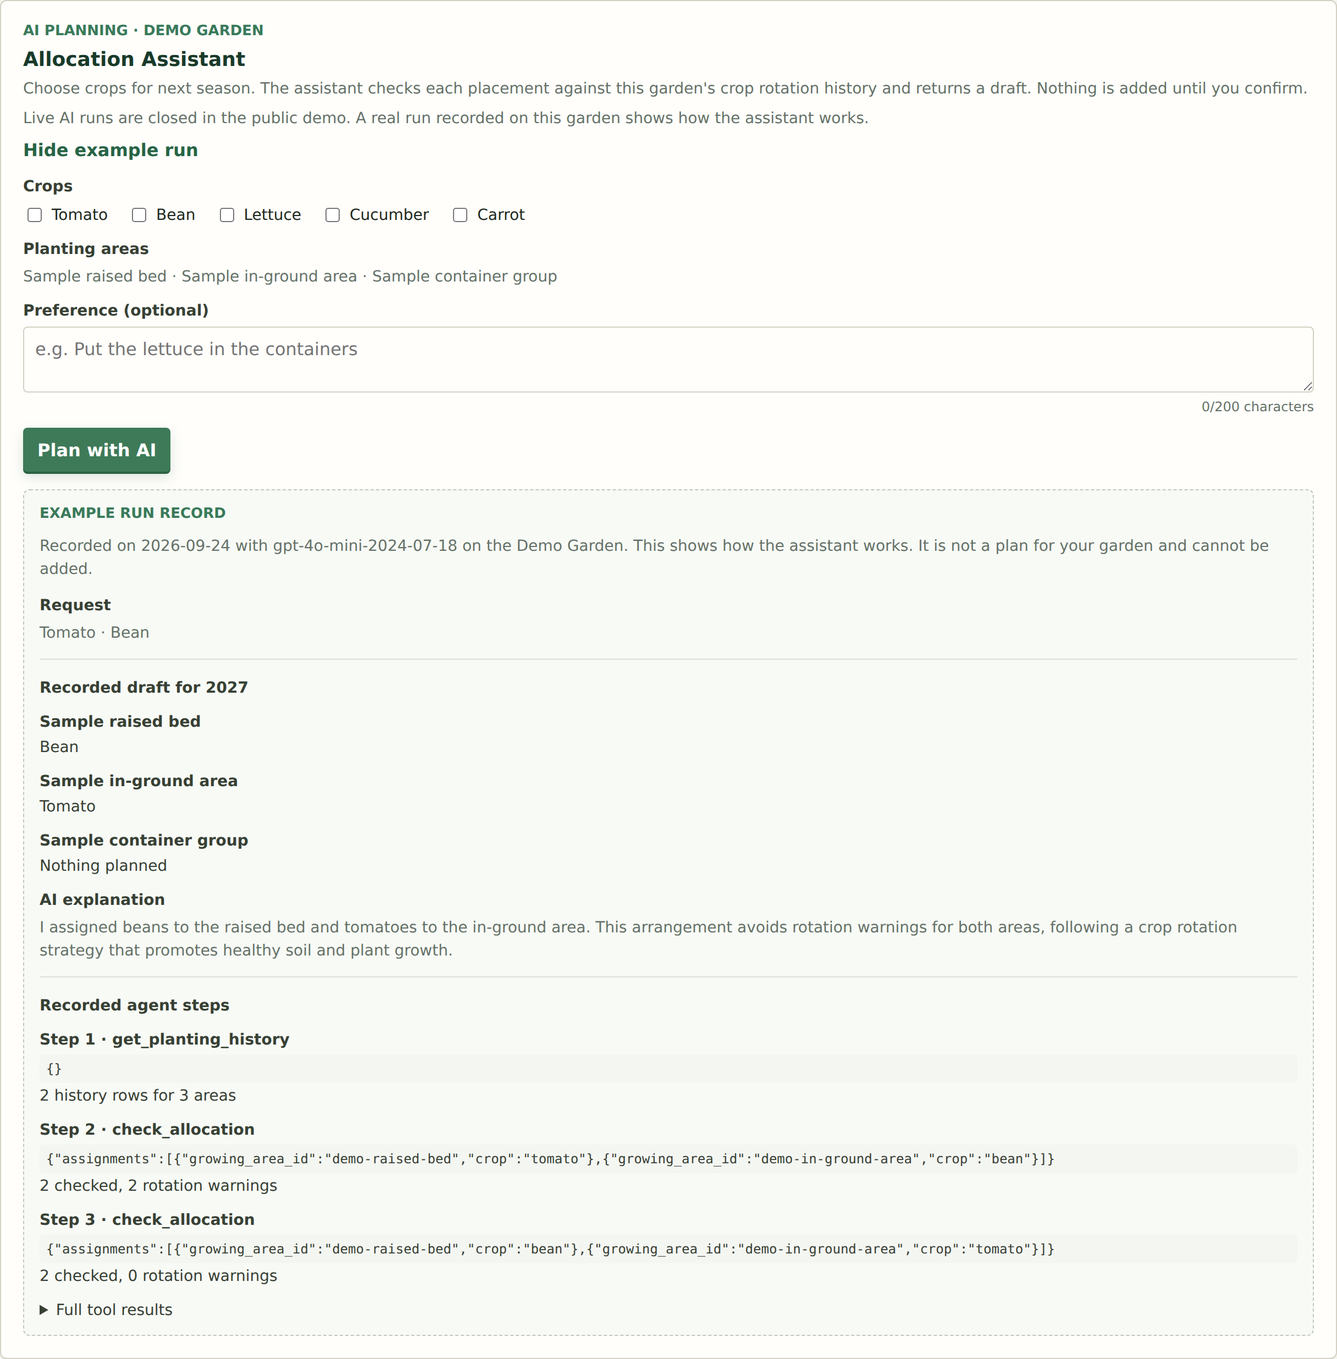
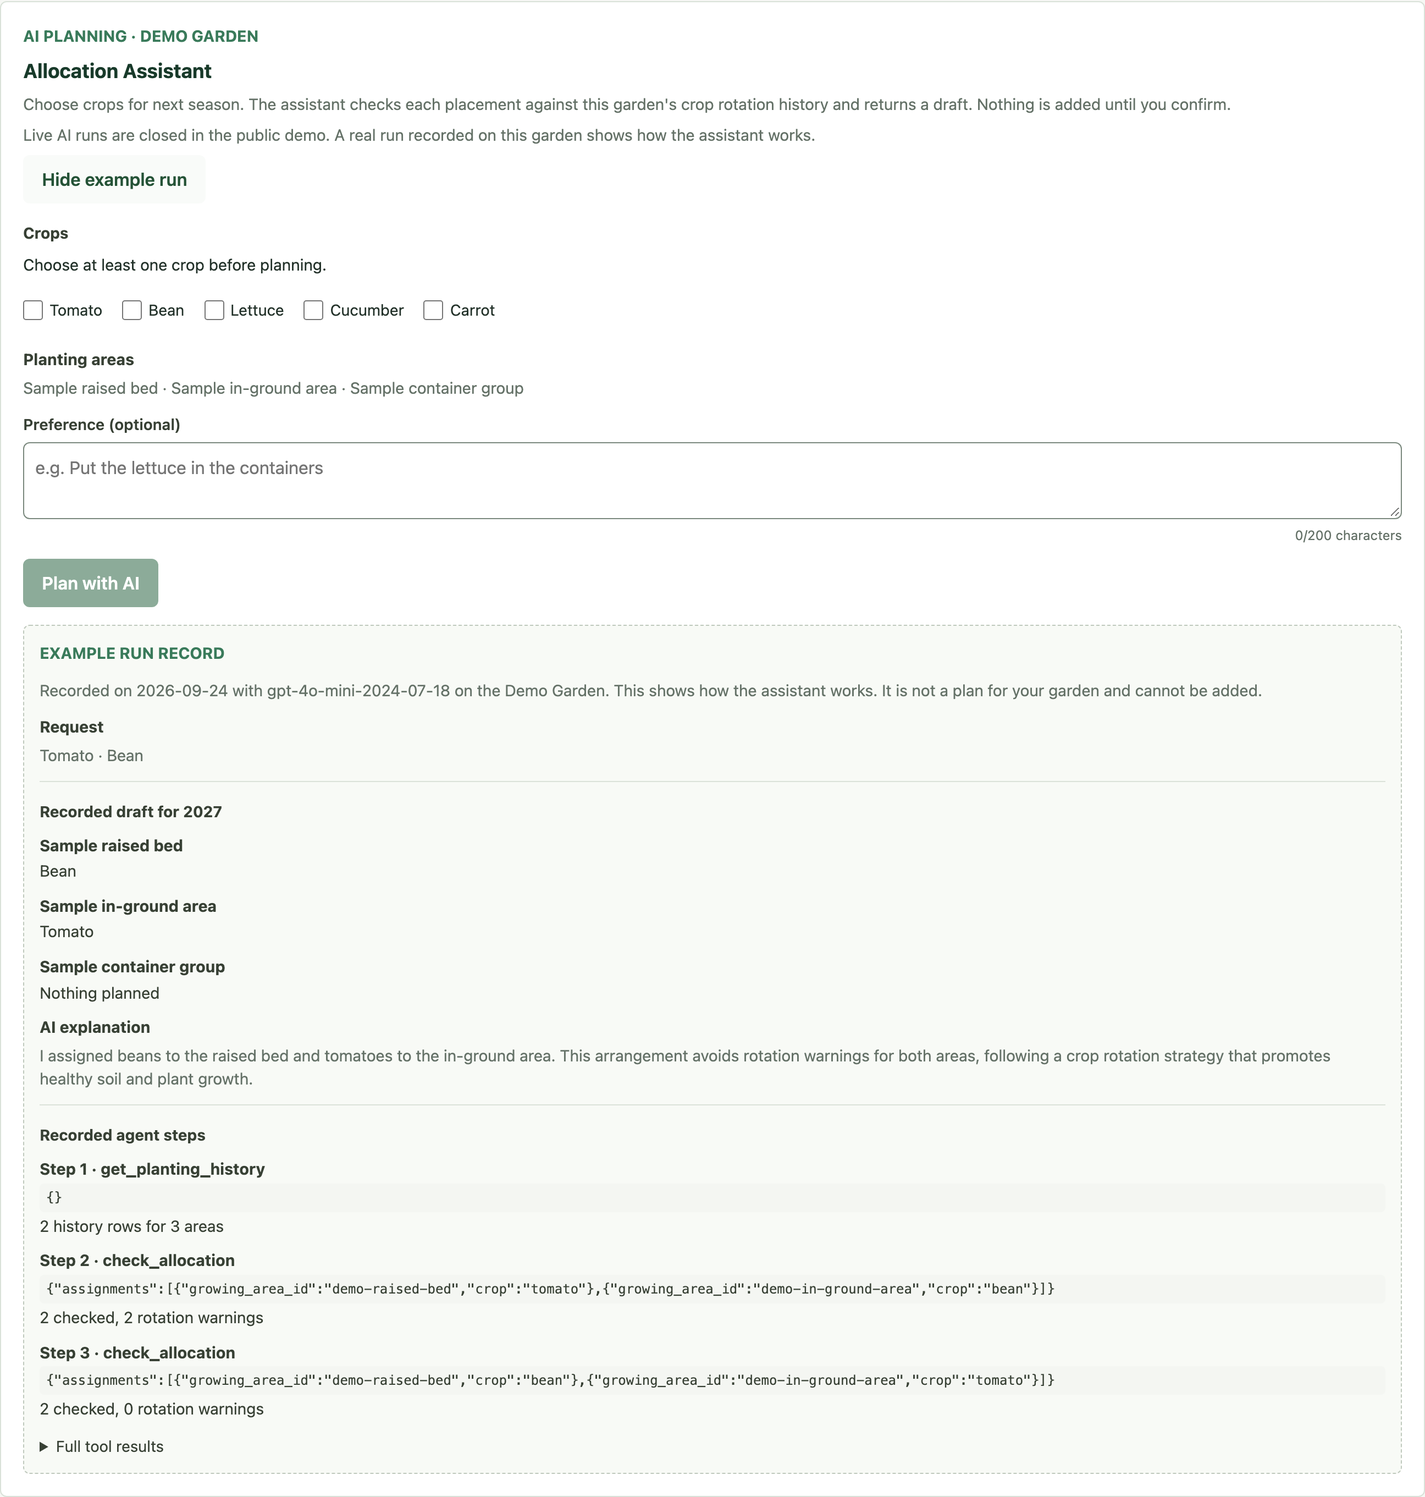
test: accept the single-canvas Garden Plan at four sizes and refresh README screenshots
Also keeps the Allocation Assistant crop checkboxes on one line below their hint.

diff --git a/e2e/garden-plan-acceptance.spec.ts b/e2e/garden-plan-acceptance.spec.ts
@@ -1,0 +1,89 @@
+import { expect, test, type Page } from "@playwright/test";
+import { createDemoGardenWorkspace } from "../src/lib/gardenWorkspace";
+import { planSurface } from "./areaHelpers";
+
+/**
+ * ADR-0072, phase G7: the single-canvas Garden Plan journey at the three
+ * reference widths, plus a 720 × 450 viewport at device scale 2, which is
+ * what a 1440 × 900 window shows at 200% browser zoom. Each step keeps a
+ * viewport screenshot in the test output and checks for sideways scrolling.
+ * The app has one (light) theme, so there is no dark run.
+ */
+const viewports = [
+  { name: "1440px", width: 1440, height: 900, scale: 1 },
+  { name: "768px", width: 768, height: 1024, scale: 1 },
+  { name: "390px", width: 390, height: 844, scale: 1 },
+  { name: "200% zoom", width: 720, height: 450, scale: 2 },
+];
+
+async function expectNoSideScroll(page: Page) {
+  await expect.poll(() => page.evaluate(() => document.documentElement.scrollWidth - innerWidth)).toBeLessThanOrEqual(1);
+}
+
+for (const viewport of viewports) {
+  test.describe(`Garden Plan acceptance at ${viewport.name}`, () => {
+    test.use({ viewport: { width: viewport.width, height: viewport.height }, deviceScaleFactor: viewport.scale });
+
+    test("edits the demo garden on one canvas, then guides a new garden to Ready", async ({ page }, testInfo) => {
+      const shot = (step: string) => page.screenshot({ path: testInfo.outputPath(`${step}-${viewport.name.replace(/\W+/g, "")}.png`) });
+      await page.route("**/ai/**", (route) => route.abort());
+      await page.addInitScript((value) => {
+        if (!localStorage.getItem("sun-aware-garden-planner:garden-workspace:v1")) localStorage.setItem("sun-aware-garden-planner:garden-workspace:v1", JSON.stringify(value));
+      }, createDemoGardenWorkspace());
+      await page.goto("/gardens/demo-garden/plan");
+      await expect(page.getByRole("heading", { name: "Garden Plan" })).toBeVisible();
+      await expect(page.getByText("All changes saved", { exact: true })).toBeVisible();
+      const surface = planSurface(page);
+      await expect(surface).toHaveAttribute("data-zooming", "false");
+      await surface.scrollIntoViewIfNeeded();
+      await shot("01-whole-garden");
+      await expectNoSideScroll(page);
+
+      // Opening an area zooms the same canvas; plants go straight onto it.
+      await page.getByRole("link", { name: "Edit Sample raised bed" }).click();
+      await expect(surface).toHaveAttribute("data-focused-area", "demo-raised-bed");
+      await expect(surface).toHaveAttribute("data-zooming", "false");
+      await page.getByRole("button", { name: "Add plant", exact: true }).click();
+      await page.getByLabel("Plant type", { exact: true }).fill("Lettuce");
+      await page.getByRole("button", { name: "Fill area", exact: true }).click();
+      await expect(page.getByText(/^Placed \d+ Lettuce\. Undo removes them\.$/)).toBeVisible();
+      await surface.scrollIntoViewIfNeeded();
+      await shot("02-zoomed-area");
+      await expectNoSideScroll(page);
+      await page.getByRole("button", { name: "Undo", exact: true }).click();
+      await expect(page.getByText("Undid fill Sample raised bed with Lettuce.", { exact: true })).toBeVisible();
+      await page.keyboard.press("Escape");
+      await expect(page.getByLabel("Plant type", { exact: true })).toHaveCount(0);
+      await page.getByRole("button", { name: "Whole garden" }).click();
+      await expect(surface).not.toHaveAttribute("data-focused-area", /.+/);
+
+      // A new garden starts the guide on the same canvas.
+      await page.getByRole("link", { name: "Back to gardens" }).click();
+      await page.getByRole("link", { name: "Add garden" }).click();
+      await page.getByLabel("Garden name").fill("Acceptance plot");
+      await page.getByRole("button", { name: "Continue setup" }).click();
+      const track = page.getByRole("navigation", { name: "Guided setup" });
+      await expect(track).toContainText("Step 1 of 4 · Garden size");
+      await page.getByRole("button", { name: "6 × 4 m" }).click();
+      await expect(page.getByText("Garden size set to 6 × 4 m.", { exact: true })).toBeVisible();
+      await track.scrollIntoViewIfNeeded();
+      await shot("03-guide-size");
+      await expectNoSideScroll(page);
+      await page.getByRole("button", { name: "Continue to planting areas" }).click();
+      await page.getByRole("button", { name: "Add In-ground bed, 2 × 3 m" }).click();
+      await expect(surface).toHaveAttribute("data-zooming", "false");
+      await track.scrollIntoViewIfNeeded();
+      await shot("04-guide-areas");
+      await expectNoSideScroll(page);
+      await page.getByRole("button", { name: "Continue to plants" }).click();
+      await page.getByRole("button", { name: "Skip plants for now" }).click();
+      await expect(page.getByRole("heading", { name: "Acceptance plot is ready" })).toBeVisible();
+      await track.scrollIntoViewIfNeeded();
+      await shot("05-guide-ready");
+      await expectNoSideScroll(page);
+      await page.getByRole("button", { name: "Finish setup" }).click();
+      await expect(track).toHaveCount(0);
+      await expect(page.getByRole("region", { name: "Garden properties" })).toContainText("Acceptance plot · 6 × 4 m");
+    });
+  });
+}

diff --git a/e2e/readme-screenshots.spec.ts b/e2e/readme-screenshots.spec.ts
@@ -1,0 +1,57 @@
+import { expect, test } from "@playwright/test";
+import { createDemoGardenWorkspace } from "../src/lib/gardenWorkspace";
+import { planSurface } from "./areaHelpers";
+
+/**
+ * Refreshes the README screenshots in docs/screenshots from the demo garden.
+ * It writes into the repository, so it runs only on request:
+ *
+ *   CAPTURE_README_SCREENSHOTS=1 npx playwright test e2e/readme-screenshots.spec.ts
+ *
+ * The Allocation Assistant capture answers the runtime-config request as the
+ * public demo does, so the page shows the recorded run (ADR-0057). No AI
+ * request is made.
+ */
+test.skip(!process.env.CAPTURE_README_SCREENSHOTS, "Set CAPTURE_README_SCREENSHOTS=1 to refresh the README images.");
+test.use({ viewport: { width: 1360, height: 900 }, deviceScaleFactor: 2 });
+
+test.beforeEach(async ({ page }) => {
+  await page.route("**/ai/**", (route) => route.abort());
+  // The Next.js development badge is not part of the product.
+  await page.addInitScript(() => {
+    addEventListener("DOMContentLoaded", () => {
+      const style = document.createElement("style");
+      style.textContent = "nextjs-portal { display: none !important; }";
+      document.head.append(style);
+    });
+  });
+  await page.addInitScript((value) => {
+    if (!localStorage.getItem("sun-aware-garden-planner:garden-workspace:v1")) localStorage.setItem("sun-aware-garden-planner:garden-workspace:v1", JSON.stringify(value));
+  }, createDemoGardenWorkspace());
+});
+
+test("Garden Plan", async ({ page }) => {
+  await page.goto("/gardens/demo-garden/plan");
+  await expect(page.getByText("All changes saved", { exact: true })).toBeVisible();
+  await expect(planSurface(page)).toHaveAttribute("data-zooming", "false");
+  await page.locator('[data-mode="wide"]').screenshot({ path: "docs/screenshots/garden-plan.png" });
+});
+
+test("Next Season rotation details", async ({ page }) => {
+  await page.goto("/gardens/demo-garden/season");
+  const plans = page.getByRole("region", { name: "Planting plans" });
+  await expect(plans.getByRole("article")).toHaveCount(3);
+  for (const summary of await plans.locator("summary", { hasText: "Rotation details" }).all()) await summary.click();
+  await expect(plans.getByText("Good rotation fit", { exact: true }).first()).toBeVisible();
+  await plans.screenshot({ path: "docs/screenshots/season-rotation.png" });
+});
+
+test("Allocation Assistant recorded run", async ({ page }) => {
+  await page.route("**/runtime-config", (route) => route.fulfill({ json: { portfolioDemo: true, careNotePublicAvailable: false, careNoteBatchAvailable: false } }));
+  await page.goto("/gardens/demo-garden/season");
+  await page.locator("summary", { hasText: "Allocation Assistant · Demo Garden" }).click();
+  await page.getByRole("button", { name: "View example run" }).click();
+  const assistant = page.locator("section.allocation-assistant");
+  await expect(assistant.getByRole("region", { name: "Example run" })).toBeVisible();
+  await assistant.screenshot({ path: "docs/screenshots/allocation-assistant.png" });
+});

diff --git a/e2e/season-hierarchy.spec.ts b/e2e/season-hierarchy.spec.ts
@@ -41,6 +41,14 @@ for (const width of [390, 1440]) {
     await expect(card.getByText("Kale", { exact: true })).toBeVisible();
     await expect(card.getByRole("button", { name: "Add a plant" })).toBeVisible();
     await page.locator("summary", { hasText: "Plan preview · Demo Garden" }).click();
+    // Each crop choice stays on one line with a native-size checkbox, below its hint.
+    await page.locator("summary", { hasText: "Allocation Assistant · Demo Garden" }).click();
+    const crops = page.getByRole("group", { name: "Crops" });
+    for (const crop of ["Tomato", "Bean", "Lettuce", "Cucumber", "Carrot"]) {
+      const label = crops.locator("label", { hasText: crop });
+      expect((await label.boundingBox())!.height).toBeLessThanOrEqual(48);
+      expect((await label.getByRole("checkbox").boundingBox())!.width).toBeLessThanOrEqual(24);
+    }
     expect(await page.evaluate(() => document.documentElement.scrollWidth - innerWidth)).toBeLessThanOrEqual(1);
     expect(aiRequests).toEqual([]);
     await page.screenshot({ path: testInfo.outputPath(`season-${width}.png`), fullPage: true });

diff --git a/src/styles/legacy-workspace.css b/src/styles/legacy-workspace.css
@@ -329,8 +329,22 @@
 }
 .allocation-choices label {
   display: inline-flex;
+  flex: 0 0 auto;
   align-items: center;
   gap: 6px;
+  min-height: 44px;
+  white-space: nowrap;
+}
+/* The hint takes its own row, and checkboxes keep their native size; the label keeps the 44px touch target. */
+.allocation-choices > p {
+  flex: 1 0 100%;
+  margin: 0;
+}
+.allocation-choices input[type="checkbox"] {
+  width: 18px;
+  height: 18px;
+  min-height: 0;
+  margin: 0;
 }
 .allocation-areas,
 .allocation-explanation {

diff --git a/README.md b/README.md
@@ -10,12 +10,11 @@ plan the next season, and ask source-grounded plant questions.
 
 ## Screenshots
 
-**Garden plan** — planting areas laid out on a real metric grid, with plants placed inside each area.
+**Garden plan** — one canvas on a real metric grid. Each area type button drops a standard-size bed; areas drag and resize in place, opening an area zooms the same canvas to place plants, and every edit saves at once with Undo and Redo. A new garden walks through four guided steps: garden size, planting areas, plants, and Ready.
 
-<img width="1000" alt="Garden plan showing three measured planting areas on a metric grid" src="docs/screenshots/garden-plan.png" />
+<img width="1000" alt="Garden Plan with three planting areas on a metric grid, area type buttons, Undo and Redo, and the planting-area list" src="docs/screenshots/garden-plan.png" />
 
 **Next Season** — area plans first, with expandable rotation history and companion sources.
-The screenshots below predate the frontend update; refreshed browser captures are pending.
 
 <img width="1000" alt="Rotation cards per growing area: last season's crop, families to avoid, and good rotation fits" src="docs/screenshots/season-rotation.png" />
 
@@ -25,8 +24,9 @@ The screenshots below predate the frontend update; refreshed browser captures ar
 
 ## What It Demonstrates
 
-- **Garden operations:** multiple gardens, raised beds, in-ground areas, and
-  container groups with measured planting layouts.
+- **Garden operations:** multiple gardens, raised beds, in-ground beds,
+  containers, and greenhouses on one metric plan canvas, with direct
+  placement, autosave, undo, and a guided first-run setup.
 - **Current records:** plants, care history, recurring care tasks, and
   reviewable plant-health records.
 - **Seasonal planning:** crop-family rotation guidance by growing area and a
@@ -64,8 +64,9 @@ The API sleeps on the free tier, so the first request can take about a minute.
 1. Start the API and database with `docker compose up --build`.
 2. In another terminal, run `npm install`, then start the web app with `npm run dev`.
 3. Open `http://localhost:3000` and select **Load demo garden**.
-4. Select the **Demo Garden** card to inspect its measured growing areas and
-   plant layout.
+4. Select the **Demo Garden** card. Open an area to zoom the plan into it and
+   place plants, drag an area to move it, and use **Undo** to reverse a change.
+   **Add garden** starts the four-step guided setup on the same canvas.
 5. Return to the dashboard and open **Next Season**. Choose plants for each area. Expand **Rotation details** for history and companion sources,
    or **Allocation Assistant** to review an AI draft or the recorded demo run.
 6. Open **Care** to create a task or record a completed care event.

diff --git a/docs/decisions/README.md b/docs/decisions/README.md
@@ -90,11 +90,11 @@ changes, mark the old record as superseded and add a new record.
 | [ADR-0045](0045-use-a-garden-properties-panel-and-module-cards.md) | Use a Garden properties panel and module cards | Superseded by ADR-0051 |
 | [ADR-0046](0046-use-an-in-context-planting-area-creation-panel.md) | Use an in-context planting-area creation panel | Superseded by ADR-0050 |
 | [ADR-0047](0047-use-a-unified-planting-area-properties-form.md) | Use a unified planting-area properties form | Superseded by ADR-0050 |
-| [ADR-0048](0048-place-garden-properties-above-the-plan-canvas.md) | Place Garden properties above the Plan canvas | Accepted |
+| [ADR-0048](0048-place-garden-properties-above-the-plan-canvas.md) | Place Garden properties above the Plan canvas | Superseded in part by ADR-0072 (G6) |
 | [ADR-0049](0049-use-visually-distinct-automatic-plant-colors.md) | Use visually distinct automatic plant colors | Accepted |
 | [ADR-0050](0050-use-a-garden-plan-planting-area-inspector.md) | Use a Garden Plan planting-area inspector | Superseded by ADR-0053 |
 | [ADR-0051](0051-prioritize-daily-garden-work-on-the-dashboard.md) | Prioritize daily garden work on the dashboard | Accepted |
-| [ADR-0052](0052-show-save-actions-only-for-pending-edits.md) | Show Save actions only for pending edits | Accepted; amended for Garden Plan by ADR-0072 (G5) |
+| [ADR-0052](0052-show-save-actions-only-for-pending-edits.md) | Show Save actions only for pending edits | Accepted; amended for Garden Plan by ADR-0072 (G5, G6) |
 | [ADR-0053](0053-keep-plant-layout-in-the-planting-area-inspector.md) | Keep plant layout in the planting-area inspector | Superseded by ADR-0072 (G3) |
 | [ADR-0054](0054-use-fixed-canvas-garden-plan-views.md) | Use fixed-canvas Garden Plan views | Superseded in part by ADR-0072 (G2) |
 | [ADR-0055](0055-use-automatic-sync-with-optimistic-locking.md) | Use automatic workspace sync with optimistic locking | Accepted |
@@ -114,7 +114,7 @@ changes, mark the old record as superseded and add a new record.
 | [ADR-0069](0069-open-garden-notes-in-place-from-overview.md) | Open Garden Notes in place from Overview | Accepted; entry amended to Overview only |
 | [ADR-0070](0070-preview-and-position-planting-areas-on-the-plan.md) | Preview and position planting areas on the plan | Superseded in part by ADR-0072 (G2, G3, G4) |
 | [ADR-0071](0071-recover-missing-workspaces-from-browser-copies.md) | Recover missing workspaces from browser copies | Accepted |
-| [ADR-0072](0072-use-a-single-plan-canvas-with-guided-setup.md) | Use a single plan canvas with guided setup | Accepted; G1–G6 implemented |
+| [ADR-0072](0072-use-a-single-plan-canvas-with-guided-setup.md) | Use a single plan canvas with guided setup | Accepted; implemented (G1–G7) |
 
 ## Interview Use
 

diff --git a/docs/frontend-professionalization-progress.md b/docs/frontend-professionalization-progress.md
@@ -1003,3 +1003,30 @@ Garden size, Planting areas, Plants, and Ready.
   (`GardenWorkspace.test.tsx`); and `e2e/guided-setup.spec.ts`, which runs the
   whole guide at 1440px (dragging the corner) and 390px (presets and fields)
   against the real API.
+
+## G7: Garden Plan browser acceptance and documentation
+
+Phase G7 closes the single-canvas plan ([ADR-0072](decisions/0072-use-a-single-plan-canvas-with-guided-setup.md)).
+
+- `e2e/garden-plan-acceptance.spec.ts` runs one journey at 1440, 768, and
+  390 px, and at 720 × 450 px with device scale 2, which is what a
+  1440 × 900 window shows at 200% browser zoom. The journey opens the demo
+  garden, zooms into a bed, fills it with plants, undoes the fill, returns to
+  the whole garden, and takes a new garden through the guided setup to Ready.
+  Each step keeps a viewport screenshot in the test output and checks that the
+  page does not scroll sideways.
+- The app has one light theme, so there is no dark-mode run. The phone
+  soft-keyboard check needs a real device and remains an owner check.
+- The README shows refreshed screenshots of Garden Plan, Next Season rotation
+  details, and the Allocation Assistant's recorded run, and describes the
+  single canvas, autosave and undo, and the guided setup.
+  `CAPTURE_README_SCREENSHOTS=1 npx playwright test e2e/readme-screenshots.spec.ts`
+  regenerates the images; the assistant capture answers the runtime-config
+  request as the public demo does, so it never calls an AI provider.
+- The recapture showed the Allocation Assistant's crop checkboxes squeezed
+  into one row with their hint, which broke the crop names over several lines.
+  With the owner's approval, G7 gives the hint its own row, keeps checkboxes at
+  their native size with a 44 px label target, and keeps each name on one
+  line. `season-hierarchy.spec.ts` checks it at 390 and 1440 px.
+- ADR-0048 is marked as superseded in part (garden details apply without
+  Save), and ADR-0052's Garden Plan amendment now covers G6.

diff --git a/docs/decisions/0072-use-a-single-plan-canvas-with-guided-setup.md b/docs/decisions/0072-use-a-single-plan-canvas-with-guided-setup.md
@@ -1,6 +1,6 @@
 # ADR-0072: Use a Single Plan Canvas with Guided Setup
 
-- Status: Accepted; G1 (presentation), G2 (zoom into an area), G3 (plants on the main canvas), G4 (direct area placement), G5 (autosave and undo), and G6 (guided setup) implemented, G7 pending
+- Status: Accepted; implemented in phases G1 (presentation), G2 (zoom into an area), G3 (plants on the main canvas), G4 (direct area placement), G5 (autosave and undo), and G6 (guided setup), with G7 browser acceptance completed 2026-11-14
 - Date: 2026-11-12
 - Supersedes in part, as each phase lands: [ADR-0048](0048-place-garden-properties-above-the-plan-canvas.md), [ADR-0053](0053-keep-plant-layout-in-the-planting-area-inspector.md), [ADR-0054](0054-use-fixed-canvas-garden-plan-views.md), [ADR-0066](0066-adapt-area-editing-to-available-space.md), and [ADR-0070](0070-preview-and-position-planting-areas-on-the-plan.md)
 - Amends for Garden Plan edits, in phase G5: [ADR-0052](0052-show-save-actions-only-for-pending-edits.md) and [ADR-0062](0062-preserve-planting-area-editor-drafts.md)
@@ -215,6 +215,17 @@ current setup flag, and adds no stored field.
   everywhere: name, width, and length apply on blur or Enter like the area
   fields, and "Done" closes the fields. Each change is one undo step; a name
   and size changed together undo as one step.
+
+### Browser acceptance (phase G7, completed 2026-11-14)
+
+`e2e/garden-plan-acceptance.spec.ts` runs the whole-garden view, zooming into
+an area and filling it with plants, Undo, and the guided setup to Ready at
+1440, 768, and 390 px, and at 720 × 450 px with device scale 2 (a 1440 × 900
+window at 200% zoom). Each step keeps a screenshot and checks that the page
+does not scroll sideways. The app has a single light theme, so there is no
+dark-mode run. The phone soft-keyboard check needs a real device and remains
+an owner check. `e2e/readme-screenshots.spec.ts` regenerates the README
+images on request.
 
 ### Presentation (phase G1)
 

diff --git a/docs/decisions/0052-show-save-actions-only-for-pending-edits.md b/docs/decisions/0052-show-save-actions-only-for-pending-edits.md
@@ -1,6 +1,6 @@
 # ADR-0052: Show Save Actions Only for Pending Edits
 
-- Status: Accepted; amended for Garden Plan by [ADR-0072](0072-use-a-single-plan-canvas-with-guided-setup.md) (phase G5, 2026-11-14): planting-area properties and selected-plant fields apply on blur or Enter and have no Save button; Undo and Redo replace the explicit commit. Garden details, care, notes, and health keep this record's Save behaviour.
+- Status: Accepted; amended for Garden Plan by [ADR-0072](0072-use-a-single-plan-canvas-with-guided-setup.md) (phase G5, 2026-11-14): planting-area properties and selected-plant fields apply on blur or Enter and have no Save button; Undo and Redo replace the explicit commit. Phase G6 (2026-11-14) extends this to the garden details (name, width, and length). Care, notes, and health keep this record's Save behaviour.
 - Date: 2026-09-03
 - Related: [ADR-0048](0048-place-garden-properties-above-the-plan-canvas.md) and [ADR-0050](0050-use-a-garden-plan-planting-area-inspector.md)
 

diff --git a/docs/decisions/0048-place-garden-properties-above-the-plan-canvas.md b/docs/decisions/0048-place-garden-properties-above-the-plan-canvas.md
@@ -1,6 +1,6 @@
 # ADR-0048: Place Garden Properties Above the Plan Canvas
 
-- Status: Accepted
+- Status: Superseded in part by [ADR-0072](0072-use-a-single-plan-canvas-with-guided-setup.md) (phase G6, 2026-11-14). The garden name and size still sit above the plan canvas, but they apply on blur or Enter with no Save action, and during the guided setup the Garden size step replaces them.
 - Form presentation refined by [ADR-0066](0066-adapt-area-editing-to-available-space.md): show a summary above the plan and open the form explicitly in the same location.
 - Date: 2026-09-03
 - Related: [ADR-0045](0045-use-a-garden-properties-panel-and-module-cards.md)
